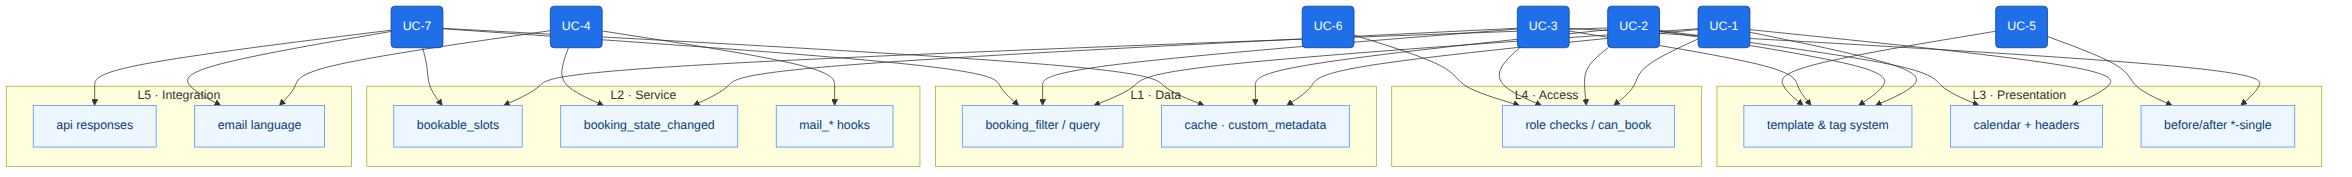
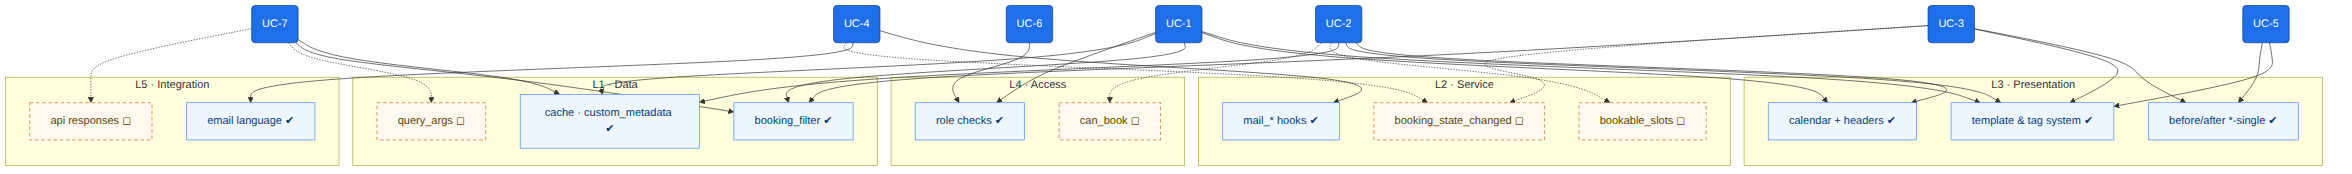
docs: scope hooks doc to existing-hooks reference for MVP landing
Reframe the document as a truthful reference for the hooks that ship in
the current 2.10.x line and quarantine every not-yet-implemented idea:

- Strip proposed (marked) hooks from the layer tables and the hierarchy
  tree so the reference records only what the code emits today.
- Add section 6 'Proposed extension points (RFC — not implemented)' that
  consolidates the proposals as candidates for a future 2.11.0 minor,
  with the use cases each unlocks and a suggested first slice.
- Mark proposed nodes distinctly (dashed, dotted edges) in the layered
  graph and re-render it, so no image implies a hook exists when it does
  not; note the intertwine section is analysis, not API.
- Restate scope/versioning up front: docs-only, no version bump.

Claude-Session: https://claude.ai/code/session_01UdNXy7zZYd3ccnCLdc5hQY

diff --git a/docs/hooks-concept.md b/docs/hooks-concept.md
@@ -6,7 +6,7 @@
 > notification and presentation surfaces a visitor, booking user or manager
 > actually touches.
 >
-> It is built in four movements:
+> It is built in six movements:
 >
 > 1. **Use cases** — a conceptual overview of *what* someone customizes.
 > 2. **Use cases × domain objects** — the same use cases, re-read against the
@@ -15,11 +15,17 @@
 >    action legitimately belongs in each.
 > 4. **The hierarchy** — a single tree that lets you follow any use case
 >    downward through the layers, from intent to hook.
+> 5. **The intertwining** — where use cases share seams (analysis, with graphs).
+> 6. **Proposals (RFC)** — extension points that do *not* yet exist, kept
+>    separate from the reference above.
 >
-> Throughout, hooks that **exist today** in the codebase are marked `✔`, and
-> hooks that are **conceptual gaps** (natural extension points that are not yet
-> emitted) are marked `◻`. The gap markers describe *where* a hook would belong
-> in this scheme; they are proposals for discussion, not existing API.
+> **Scope & status.** §0–§5 are a **reference for the hooks that exist today**
+> in the codebase (all marked `✔`), verified against `src/`, `templates/` and
+> `includes/`. They document the extension surface of the current `2.10.x`
+> line and add no code. Ideas for hooks that do **not** yet exist are kept out
+> of the reference and collected in **§6 (RFC — not implemented)**, marked `◻`;
+> those are proposals for a future minor (`2.11.0`), subject to design review,
+> and are **not** part of the plugin's API.
 
 ---
 
@@ -149,7 +155,8 @@ in `src/Model` and registered as custom post types in
 
 CommonsBooking is organized in five layers. A hook is only well-placed if it
 lives in the layer that owns the decision it exposes. This section states, per
-layer, *what belongs there* and *which existing/gap hooks sit there.*
+layer, *what belongs there* and *which hooks the current code emits there.*
+Proposed extension points for layers that are thin today are gathered in §6.
 
 ### L1 — Data & persistence layer
 `Wordpress/CustomPostType/*`, `Wordpress/PostStatus/*`, `Repository/*`, `Model/*`
@@ -164,8 +171,6 @@ later renders.
 | `commonsbooking_custom_metadata` | filter | ✔ | Extra CMB2 metadata registered on objects |
 | `commonsbooking_booking_filter` | filter | ✔ | Which bookings a query returns |
 | `commonsbooking_disableCache` | filter | ✔ | Whether the object/query cache is bypassed |
-| `commonsbooking_saved_<object>` (item/location/timeframe/booking) | action | ◻ | React after a domain object is persisted |
-| `commonsbooking_query_args_<object>` | filter | ◻ | Reshape repository query args before fetch |
 
 ### L2 — Domain & service layer
 `Service/*` (Booking, BookingCodes, BookingRule, Holiday, iCalendar, Scheduler,
@@ -185,9 +190,6 @@ the system.
 | `commonsbooking_mail_sent` | action | ✔ | React after a message is sent |
 | `commonsbooking_before_send_location_reminder_mail` | filter | ✔ | Gate/shape location reminder mails |
 | `commonsbooking_emailcodes_icalevent_title` | filter | ✔ | iCal event title in code mails |
-| `commonsbooking_booking_state_changed` | action | ◻ | Single unified transition event (confirm/cancel/hold) |
-| `commonsbooking_bookable_slots` | filter | ◻ | Adjust computed availability before render |
-| `commonsbooking_booking_code` | filter | ◻ | Override generated code format |
 
 ### L3 — Presentation & view layer
 `View/*`, `templates/*`, `CB/CB.php` (template tags), `includes/Template.php`,
@@ -211,10 +213,6 @@ single-page templates, and the `[cb ...]` template-tag system. This is where the
 | `commonsbooking_before_/after_item-calendar-header` | action | ✔ | Wrap the item calendar header |
 | `commonsbooking_before_/after_location-calendar-header` | action | ✔ | Wrap the location calendar header |
 | `commonsbooking_before_/after_timeframe-calendar` | action | ✔ | Wrap the availability calendar |
-| `commonsbooking_shortcode_atts_<tag>` | filter | ◻ | Normalize shortcode attributes |
-| `commonsbooking_<listing>_query` / `_results` | filter | ◻ | Reorder/filter item & location listings and map markers |
-| `commonsbooking_before_/after_shortcode-items` (and other list/table/map templates) | action | ◻ | Wrap listing regions not yet bracketed |
-| `commonsbooking_calendar_day_classes` | filter | ◻ | Per-day CSS/state hints |
 
 ### L4 — Access & role layer
 `includes/Users.php`
@@ -231,19 +229,18 @@ subscriber-only views).
 | `commonsbooking_admin_roles` | filter | ✔ | Roles counted as admin |
 | `commonsbooking_manager_roles` | filter | ✔ | Roles counted as manager |
 | `commonsbooking_privileged_roles` | filter | ✔ | Roles counted as privileged |
-| `commonsbooking_can_book` | filter | ◻ | Per-user/per-item bookability gate |
 
 ### L5 — Integration & API layer
 `API/*` (REST routes, GBFS), user data exporters/erasers, WPML bridges
 
-Owns external representations. Hooks here keep the **outside view consistent**
-with the customized on-site UX.
+Owns external representations. Today this layer exposes no CommonsBooking-owned
+UX filters — the only extension points are the external WPML bridges the plugin
+calls into. Proposed `commonsbooking_api_*` filters that would let the REST/GBFS
+views mirror on-site overrides are gathered in §6.
 
 | Hook | Kind | Status | What it governs |
 |---|---|---|---|
 | *(WPML)* `wpml_switch_language_for_email` / `wpml_reset_language_after_mailing` | action | ✔ (external) | Per-recipient email language |
-| `commonsbooking_api_item_response` / `_location_response` | filter | ◻ | Shape REST/GBFS payloads |
-| `commonsbooking_api_availability` | filter | ◻ | Shape the availability route output |
 
 ---
 
@@ -254,31 +251,23 @@ layers to the concrete **hooks** that realize it. Read top-to-bottom to see how 
 single customization goal descends through the application.
 
 ```
-CommonsBooking UX extension surface
+CommonsBooking UX extension surface  ·  existing hooks only (proposals: §6)
 │
 ├── UC-1 · Discover & browse the commons
-│    ├── L1 Data ....... commonsbooking_booking_filter ✔ · query_args_<object> ◻
+│    ├── L1 Data ....... commonsbooking_booking_filter ✔
 │    ├── L3 Present ..... shortcodes cb_items / cb_locations / cb_map / cb_search
 │    │                     ├─ commonsbooking_get_template_part ✔      (swap card template)
-│    │                     ├─ commonsbooking_tag_{item|location}_* ✔  (relabel fields)
-│    │                     ├─ commonsbooking_<listing>_query|_results ◻ (reorder/filter)
-│    │                     └─ before/after shortcode-items|locations|map ◻ (wrap region)
+│    │                     └─ commonsbooking_tag_{item|location}_* ✔  (relabel fields)
 │    └── L4 Access ...... commonsbooking_isCurrentUserSubscriber ✔    (who sees what)
 │
 ├── UC-2 · Check availability & start a booking
-│    ├── L2 Service ..... commonsbooking_bookable_slots ◻             (compute availability)
-│    ├── L3 Present ..... timeframe-calendar template
-│    │                     ├─ commonsbooking_before/after_timeframe-calendar ✔
-│    │                     ├─ commonsbooking_before/after_item|location-calendar-header ✔
-│    │                     ├─ commonsbooking_mobile_calendar_month_count ✔ (reach)
-│    │                     └─ commonsbooking_calendar_day_classes ◻    (per-day state)
-│    └── L4 Access ...... commonsbooking_can_book ◻                    (may this user book?)
+│    └── L3 Present ..... timeframe-calendar template
+│                          ├─ commonsbooking_before/after_timeframe-calendar ✔
+│                          ├─ commonsbooking_before/after_item|location-calendar-header ✔
+│                          └─ commonsbooking_mobile_calendar_month_count ✔ (reach)
 │
 ├── UC-3 · Move a booking through its lifecycle
 │    ├── L1 Data ........ save_post_cb_bookings / post_updated (WP core wiring)
-│    │                     └─ commonsbooking_saved_booking ◻          (react to persist)
-│    ├── L2 Service ..... commonsbooking_booking_state_changed ◻      (confirm/cancel/hold)
-│    │                     └─ commonsbooking_booking_code ◻           (code format)
 │    └── L3 Present ..... commonsbooking_before/after_booking-single ✔ (notice & code region)
 │
 ├── UC-4 · Communicate with people
@@ -305,10 +294,14 @@ CommonsBooking UX extension surface
 │                          └─ commonsbooking_{admin|manager|privileged}_roles ✔
 │
 └── UC-7 · Integrate with the outside
-     ├── L1 Data ........ commonsbooking_disableCache ✔ · commonsbooking_custom_metadata ✔
-     └── L5 Integration . commonsbooking_api_{item|location}_response ◻
-                          └─ commonsbooking_api_availability ◻
+     └── L1 Data ........ commonsbooking_disableCache ✔ · commonsbooking_custom_metadata ✔
 ```
+
+> Some use cases currently bottom out only in the presentation or data layer —
+> UC-2's availability *computation*, UC-3's *state transitions*, and UC-7's
+> *API payloads* have no dedicated hook yet. Those are exactly the gaps §6
+> proposes to fill; today they are reached indirectly (e.g. re-styling the
+> rendered calendar rather than the computed slots).
 
 ### How to use this hierarchy
 
@@ -320,9 +313,9 @@ CommonsBooking UX extension surface
   live in L2, "who may see/do" lives in L4, "what data exists" lives in L1.
 - **Keeping an integration in sync?** Whatever you override in L1–L4, mirror it
   in L5 so the REST/GBFS/export views agree with the on-site UX.
-- **Hitting a `◻` gap?** That marks a spot where this scheme says a hook
-  *should* exist but the code does not yet emit one. Those are the natural
-  candidates for the next round of extension-API work — proposals, not promises.
+- **Need a hook that isn't listed?** The reference above is exhaustive for the
+  current release. If the extension point you want is missing, check §6 — it may
+  already be a tracked proposal — otherwise it is new design work.
 
 ---
 
@@ -333,8 +326,13 @@ not parallel lanes — they **share seams**. The value of a hook often comes
 precisely from the fact that two use cases meet at it. The graphs below make the
 overlaps explicit.
 
-> The rendered graphs are embedded below as images; the Mermaid source that
-> generated each is kept in a collapsible block beneath it for maintenance.
+> **This section is analysis, not API.** The seams below are conceptual and
+> reference *both* shipped hooks (`✔`) and the proposed extension points from §6
+> (`◻`, shown dashed in the second graph). It explains where customization
+> concerns overlap; it does not itself add or promise any hook.
+>
+> The rendered graphs are embedded as images; the Mermaid source that generated
+> each is kept in a collapsible block beneath it for maintenance.
 
 ### 5.1 The overlap graph — where use cases meet
 
@@ -418,10 +416,14 @@ arrows arrive at one node, the use cases intertwine at that hook.
 <details>
 <summary>Diagram source (Mermaid)</summary>
 
+Solid nodes are hooks that ship today (`✔`); dashed nodes are proposed
+extension points (`◻`, see §6).
+
 ```mermaid
 flowchart TB
   classDef uc fill:#1f6feb,stroke:#0b3d91,color:#fff;
   classDef node fill:#eef6ff,stroke:#4c8dff,color:#083b7a;
+  classDef prop fill:#fff8f0,stroke:#c46a1f,color:#5b4500,stroke-dasharray:5 4;
 
   UC1(UC-1):::uc
   UC2(UC-2):::uc
@@ -432,43 +434,51 @@ flowchart TB
   UC7(UC-7):::uc
 
   subgraph L3[L3 · Presentation]
-    TPL["template &amp; tag system"]:::node
-    CAL["calendar + headers"]:::node
-    SINGLE["before/after *-single"]:::node
+    TPL["template &amp; tag system ✔"]:::node
+    CAL["calendar + headers ✔"]:::node
+    SINGLE["before/after *-single ✔"]:::node
   end
   subgraph L2[L2 · Service]
-    SLOTS["bookable_slots ◻"]:::node
-    STATE["booking_state_changed ◻"]:::node
     MAIL["mail_* hooks ✔"]:::node
+    SLOTS["bookable_slots ◻"]:::prop
+    STATE["booking_state_changed ◻"]:::prop
   end
   subgraph L1[L1 · Data]
-    QUERY["booking_filter / query ✔◻"]:::node
     CACHE["cache · custom_metadata ✔"]:::node
+    BFILTER["booking_filter ✔"]:::node
+    QUERY["query_args ◻"]:::prop
   end
   subgraph L4[L4 · Access]
-    ROLE["role checks / can_book ✔◻"]:::node
+    ROLE["role checks ✔"]:::node
+    CANBOOK["can_book ◻"]:::prop
   end
   subgraph L5[L5 · Integration]
-    API["api responses ◻"]:::node
     LANG["email language ✔"]:::node
+    API["api responses ◻"]:::prop
   end
 
-  UC1 --> TPL & CAL & QUERY & CACHE & ROLE
-  UC2 --> CAL & TPL & SLOTS & CACHE & ROLE
-  UC3 --> SINGLE & TPL & STATE & QUERY & ROLE
-  UC4 --> STATE & MAIL & LANG
+  UC1 --> TPL & CAL & BFILTER & CACHE & ROLE
+  UC2 --> CAL & TPL & CACHE
+  UC2 -.-> SLOTS & CANBOOK
+  UC3 --> SINGLE & TPL & BFILTER
+  UC3 -.-> STATE
+  UC4 --> MAIL & LANG
+  UC4 -.-> STATE
   UC5 --> TPL & SINGLE
   UC6 --> ROLE
-  UC7 --> QUERY & CACHE & SLOTS & API & LANG
+  UC7 --> CACHE & BFILTER
+  UC7 -.-> QUERY & API
 ```
 
 </details>
 
-Nodes with the most incoming arrows are the **load-bearing seams**: the template
-& tag system (L3), the role gate (L4), and the booking-state / query pair
-(L1↔L2). These are the places where a single hook customization ripples across
-several use cases at once — powerful to hook, and the ones to touch most
-carefully.
+Among the **shipping** hooks, the ones carrying the most use cases — the
+**load-bearing seams** — are the template & tag system (L3), the role gate (L4),
+and the cache / `booking_filter` pair (L1). These are where a single
+customization ripples across several use cases at once: powerful to hook, and
+the ones to touch most carefully. The dashed service seams (booking-state,
+bookable-slots) *would* become load-bearing once added — which is what makes
+them the highest-value items in §6.
 
 ### 5.3 What the intertwining means for an extender
 
@@ -476,12 +486,42 @@ carefully.
   re-labels a field in the browse card *and* the booking page *and* the calendar
   header — because UC-1, UC-3 and UC-5 share that seam. One change, consistent
   everywhere.
-- **Respect the tightest seam.** The booking-state → message seam (UC-3↔UC-4)
-  means anything you do on cancellation is felt by the mailer. React on the
-  *state* seam, not in two disconnected places.
+- **Respect the tightest seam.** Booking-state → message (UC-3↔UC-4): anything
+  you do on cancellation is felt by the mailer. Today you reach it via the
+  `mail_*` filters plus `save_post` wiring; a single `booking_state_changed`
+  action (§6) would make it one clean place to react instead of two.
 - **Keep cross-cuts honest.** The role gate (UC-6) and the cache/metadata seam
   (UC-7) touch almost everything; a change there is never local. Verify it
   against every use case that shares the seam before shipping.
+
+---
+
+## 6. Proposed extension points (RFC — not implemented)
+
+> **Status: proposal, not API.** Nothing in this section exists in the codebase.
+> These are the natural gaps the map above exposes — candidates for a future
+> **`2.11.0`** minor (new backwards-compatible hooks). Each needs its own design
+> review and PR; names and signatures are provisional. They are collected here so
+> the reference (§0–§5) stays a truthful record of what ships today.
+
+| Proposed hook | Kind | Layer | Unlocks | Why it's wanted |
+|---|---|---|---|---|
+| `commonsbooking_bookable_slots` | filter | L2 | UC-2 | Adjust *computed* availability before it renders, instead of re-styling the finished calendar. |
+| `commonsbooking_booking_state_changed` | action | L2 | UC-3, UC-4 | One unified transition event (confirm/cancel/hold) — the single clean place to react, replacing `mail_*` + `save_post` juggling. |
+| `commonsbooking_can_book` | filter | L4 | UC-2, UC-6 | Per-user / per-item bookability gate for custom eligibility rules. |
+| `commonsbooking_api_item_response` / `_location_response` | filter | L5 | UC-7 | Let REST/GBFS payloads mirror on-site overrides. |
+| `commonsbooking_api_availability` | filter | L5 | UC-7 | Same, for the availability route. |
+| `commonsbooking_<listing>_query` / `_results` | filter | L3 | UC-1 | Reorder/filter item & location listings and map markers without overriding whole templates. |
+| `commonsbooking_calendar_day_classes` | filter | L3 | UC-2 | Per-day CSS/state hints on the calendar. |
+| `commonsbooking_shortcode_atts_<tag>` | filter | L3 | UC-1 | Normalize/extend shortcode attributes in one place. |
+| `commonsbooking_before_/after_shortcode-items` (+ list/table/map templates) | action | L3 | UC-1 | Bracket the listing regions that aren't wrapped yet (parity with the single-page actions). |
+| `commonsbooking_booking_code` | filter | L2 | UC-3 | Override the generated booking-code format. |
+| `commonsbooking_query_args_<object>` | filter | L1 | UC-1, UC-7 | Reshape repository query args before fetch. |
+| `commonsbooking_saved_<object>` | action | L1 | UC-3 | React after a domain object is persisted, per post type. |
+
+**Suggested first slice** (highest ripple, per §5): `booking_state_changed` and
+`bookable_slots` — the two dashed service seams that would each carry multiple
+use cases. Everything else can follow incrementally.
 
 ---
 
@@ -513,7 +553,7 @@ and the `before_/after_` actions for `item-single`, `location-single`,
 
 - `✔` — hook is emitted in the current codebase (verified in `src/`,
   `templates/`, `includes/`).
-- `◻` — conceptual gap: a natural extension point in this scheme that the code
-  does not yet emit. Proposal for discussion, not existing API.
+- `◻` — proposed extension point, **not implemented**; consolidated in §6 and
+  targeting a future `2.11.0` minor. Not part of the current API.
 - **Filter** — reshapes a value (`apply_filters`).
 - **Action** — announces an event or brackets a rendered region (`do_action`).
